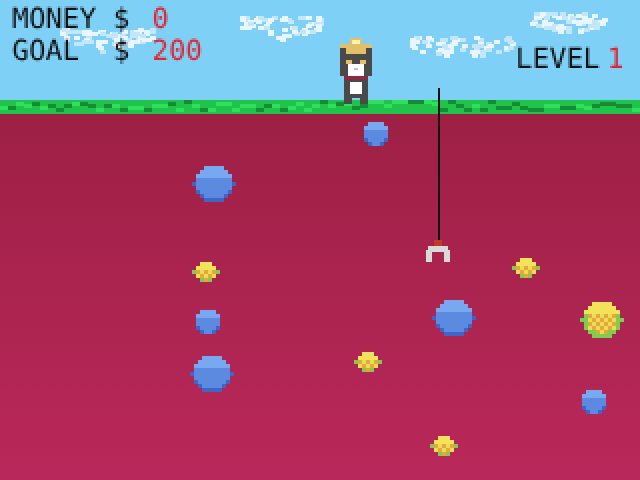
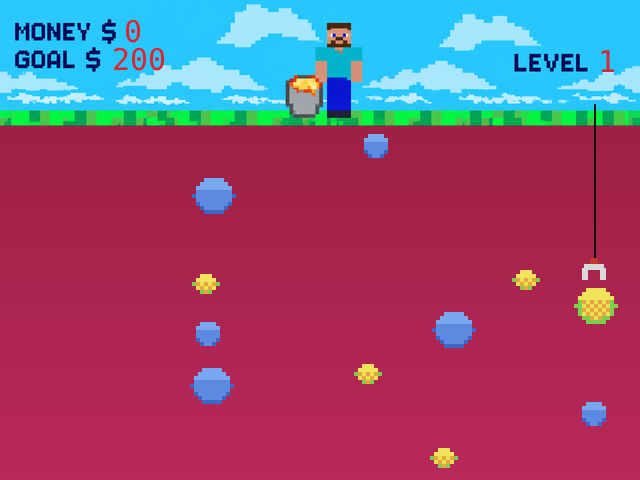
Gold Miner: use the project's title, sky HUD and level up art
Claude-Session: https://claude.ai/code/session_017kPBbMSdizYXGzbaLFqdm9

diff --git a/src/components/games/GoldMiner.jsx b/src/components/games/GoldMiner.jsx
@@ -16,7 +16,8 @@ import { useEffect, useRef, useState } from 'react';
 
 const W = 320;
 const H = 240;
-const HOOK_Y = 44;
+const HOOK_Y = 52;
+const SKY_H = 63; // our sky + grass art band at the top
 const GOAL = 200;
 const LEVEL_TIME = 45;
 const HOOK_SPEED = [0, 55, 85, 120];   // px/s for levels 1..3
@@ -28,8 +29,8 @@ const TYPE_NAME = { GL: 'large gold', GM: 'medium gold', RL: 'large rock', RM: '
 
 // object RAM: the layout from our board demo (centre x, centre y, type)
 const OBJECTS = [
-  [187, 66, 'RM'], [106, 91, 'RL'], [102, 135, 'GM'], [262, 133, 'GM'], [103, 160, 'RM'],
-  [226, 158, 'RL'], [300, 159, 'GL'], [183, 180, 'GM'], [105, 186, 'RL'], [296, 200, 'RM'], [221, 222, 'GM'],
+  [187, 72, 'RM'], [106, 97, 'RL'], [102, 141, 'GM'], [262, 139, 'GM'], [103, 166, 'RM'],
+  [226, 164, 'RL'], [300, 165, 'GL'], [183, 186, 'GM'], [105, 192, 'RL'], [296, 206, 'RM'], [221, 228, 'GM'],
 ];
 
 export const GOLD_SPEC = {
@@ -159,7 +160,12 @@ export default function GoldMiner({ probe, ctl, active = true }) {
   useEffect(() => {
     const cv = canvasRef.current;
     const ctx = cv.getContext('2d');
+    ctx.setTransform(2, 0, 0, 2, 0, 0); // draw in 320x240 game units on a 640x480 canvas
     ctx.imageSmoothingEnabled = false;
+    const img = (src) => { const i = new Image(); i.src = src; return i; };
+    const skyArt = img('./games/goldminer/sky.png');
+    const titleArt = img('./games/goldminer/title.png');
+    const levelUpArt = img('./games/goldminer/levelup.png');
 
     // background RAM: sky, clouds, grass and the dirt (crimson, like our board's colours)
     const bg = document.createElement('canvas'); bg.width = W; bg.height = H;
@@ -175,8 +181,8 @@ export default function GoldMiner({ probe, ctl, active = true }) {
     });
     b.fillStyle = '#21c44a'; b.fillRect(0, 50, W, 7);
     for (let x = 0; x < W; x += 4) { b.fillStyle = rnd() > 0.5 ? '#178a35' : '#2fe05a'; b.fillRect(x, 50 + Math.floor(rnd() * 5), 4, 2); }
-    const grad = b.createLinearGradient(0, 57, 0, H); grad.addColorStop(0, '#9e2045'); grad.addColorStop(1, '#b9285a');
-    b.fillStyle = grad; b.fillRect(0, 57, W, H - 57);
+    const grad = b.createLinearGradient(0, SKY_H, 0, H); grad.addColorStop(0, '#9e2045'); grad.addColorStop(1, '#b9285a');
+    b.fillStyle = grad; b.fillRect(0, SKY_H, W, H - SKY_H);
 
     const blob = (o, x, y) => {
       const gold = o.type[0] === 'G';
@@ -270,7 +276,12 @@ export default function GoldMiner({ probe, ctl, active = true }) {
       }
 
       // draw
-      if (s.state === 'S_BACKGROUND') {
+      const art = (im) => im.complete && im.naturalWidth > 0;
+      if (s.state === 'S_BACKGROUND' && art(titleArt)) {
+        ctx.drawImage(titleArt, 0, 0, W, H);
+      } else if (s.state === 'S_SUCCESS' && s.level < 3 && art(levelUpArt)) {
+        ctx.drawImage(levelUpArt, 0, 0, W, H);
+      } else if (s.state === 'S_BACKGROUND') {
         page('GOLD MINER', ['press ENTER to start', `grab $${GOAL} of gold in ${LEVEL_TIME} s`, 'DOWN drops the hook'], '#e2c069');
       } else if (s.state === 'S_SUCCESS') {
         page('YOU WIN!', [`MONEY $${s.money}`, s.level < 3 ? `ENTER for level ${s.level + 1}` : 'all 3 levels done!', s.level < 3 ? 'the hook gets faster' : 'ENTER to play again'], '#9be37a');
@@ -278,17 +289,26 @@ export default function GoldMiner({ probe, ctl, active = true }) {
         page("TIME'S UP", [`MONEY $${s.money} / GOAL $${GOAL}`, 'press ENTER to try again'], '#ff8fa3');
       } else {
         ctx.drawImage(bg, 0, 0);
+        const skyOk = art(skyArt);
+        if (skyOk) ctx.drawImage(skyArt, 0, 0, W, SKY_H);
         const shown = s.state === 'S_DRAW_BG' ? [] : s.objs;
         shown.forEach((o) => blob(o, o.x, o.y));
-        drawMiner();
+        if (!skyOk) drawMiner();
         if (s.state !== 'S_DRAW_BG' && s.state !== 'S_DRAW_OBJECTS') {
           if (s.ropeY > HOOK_Y) { ctx.fillStyle = '#111'; ctx.fillRect(Math.round(s.hookX), HOOK_Y, 1, Math.round(s.ropeY - HOOK_Y)); }
           drawHook(Math.round(s.hookX), Math.round(s.ropeY));
           if (s.caught) blob(s.caught, s.caught.x, s.caught.y);
         }
-        text('MONEY $', 6, 10, 14, '#111'); text(String(s.money), 76, 10, 14, '#e0242f');
-        text('GOAL  $', 6, 26, 14, '#111'); text(String(GOAL), 76, 26, 14, '#e0242f');
-        text('LEVEL', W - 20, 30, 14, '#111', 'right'); text(String(s.level), W - 8, 30, 14, '#e0242f', 'right');
+        if (skyOk) {
+          // the labels are part of the sky art; the numbers go after them in red
+          text(String(s.money), 62, 17, 15, '#e0242f');
+          text(String(GOAL), 56, 31, 15, '#e0242f');
+          text(String(s.level), 299, 32, 15, '#e0242f');
+        } else {
+          text('MONEY $', 6, 10, 14, '#111'); text(String(s.money), 76, 10, 14, '#e0242f');
+          text('GOAL  $', 6, 26, 14, '#111'); text(String(GOAL), 76, 26, 14, '#e0242f');
+          text('LEVEL', W - 20, 30, 14, '#111', 'right'); text(String(s.level), W - 8, 30, 14, '#e0242f', 'right');
+        }
       }
 
       const shownTime = Math.ceil(s.time);
@@ -329,7 +349,7 @@ export default function GoldMiner({ probe, ctl, active = true }) {
 
   return (
     <div className="gm">
-      <canvas ref={canvasRef} width={W} height={H} className="gm-canvas" onPointerDown={tap} />
+      <canvas ref={canvasRef} width={W * 2} height={H * 2} className="gm-canvas" onPointerDown={tap} />
       <div className="gm-board">
         <div className="gm-hex" aria-label={`Timer ${timeShown} seconds`}>
           <Hex d={Math.floor(timeShown / 10)} /><Hex d={timeShown % 10} />
